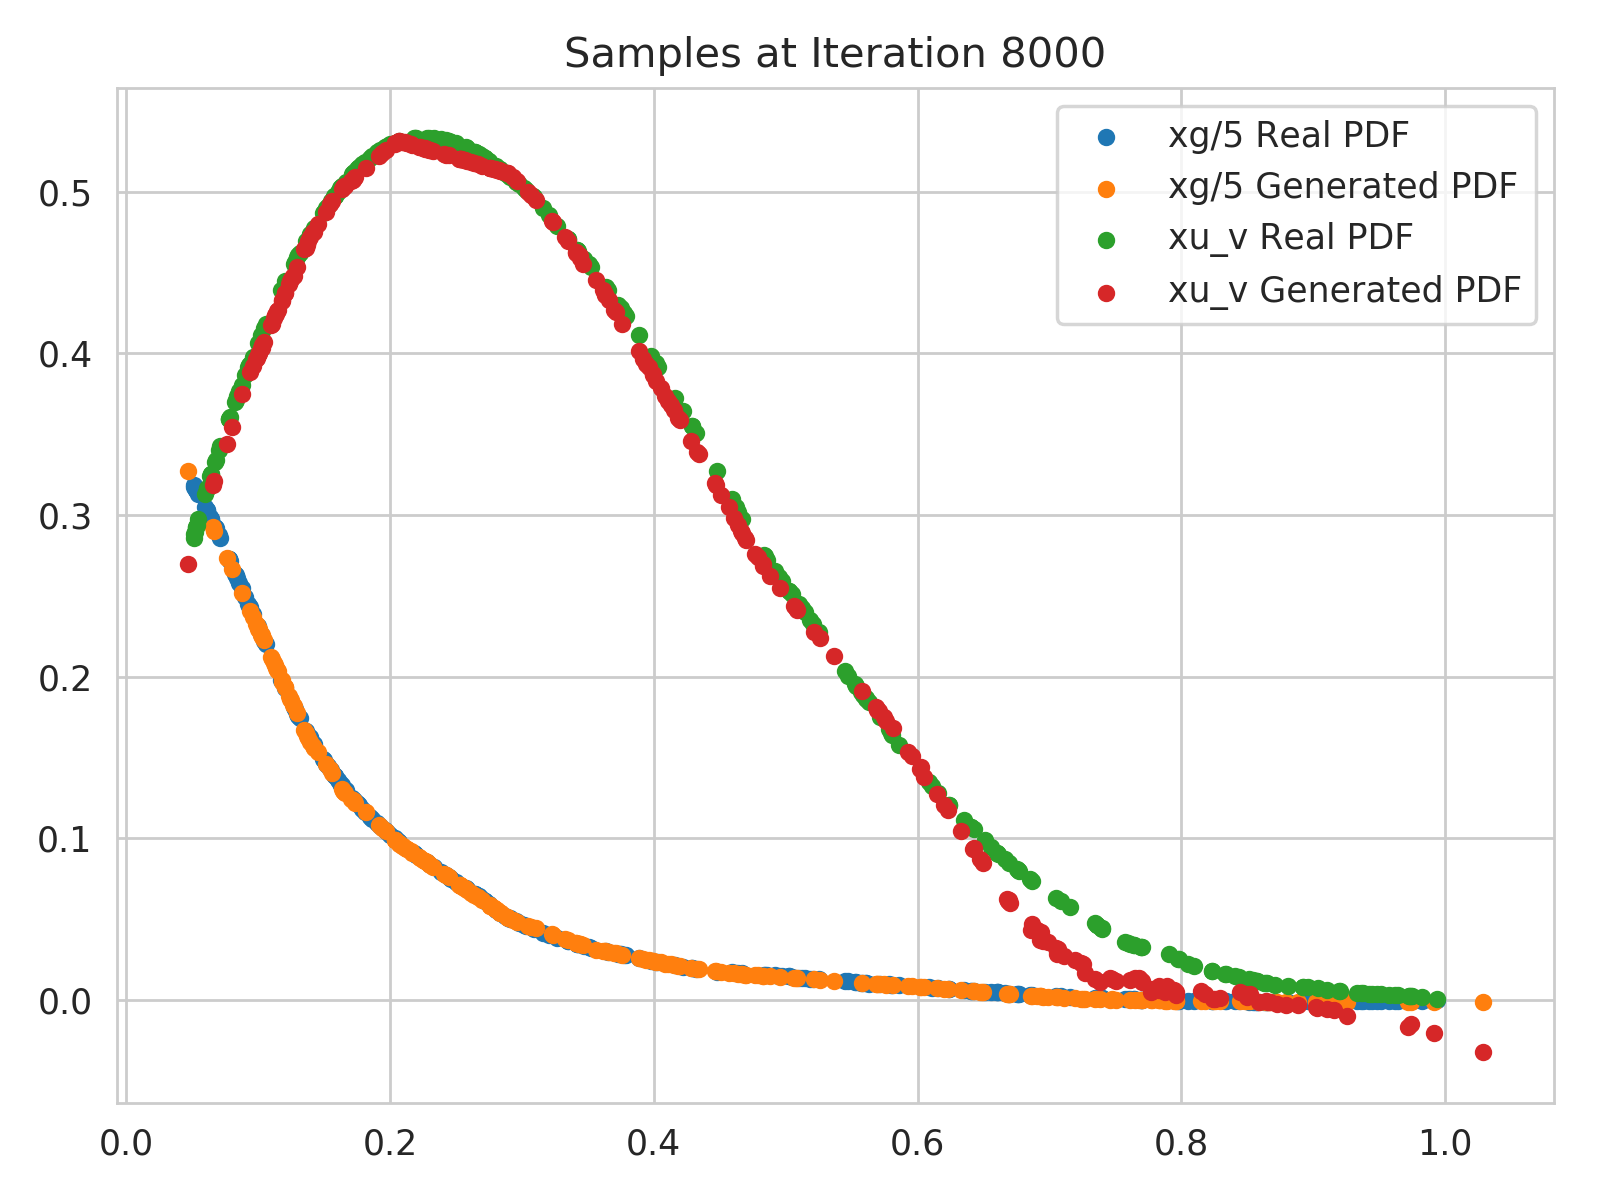
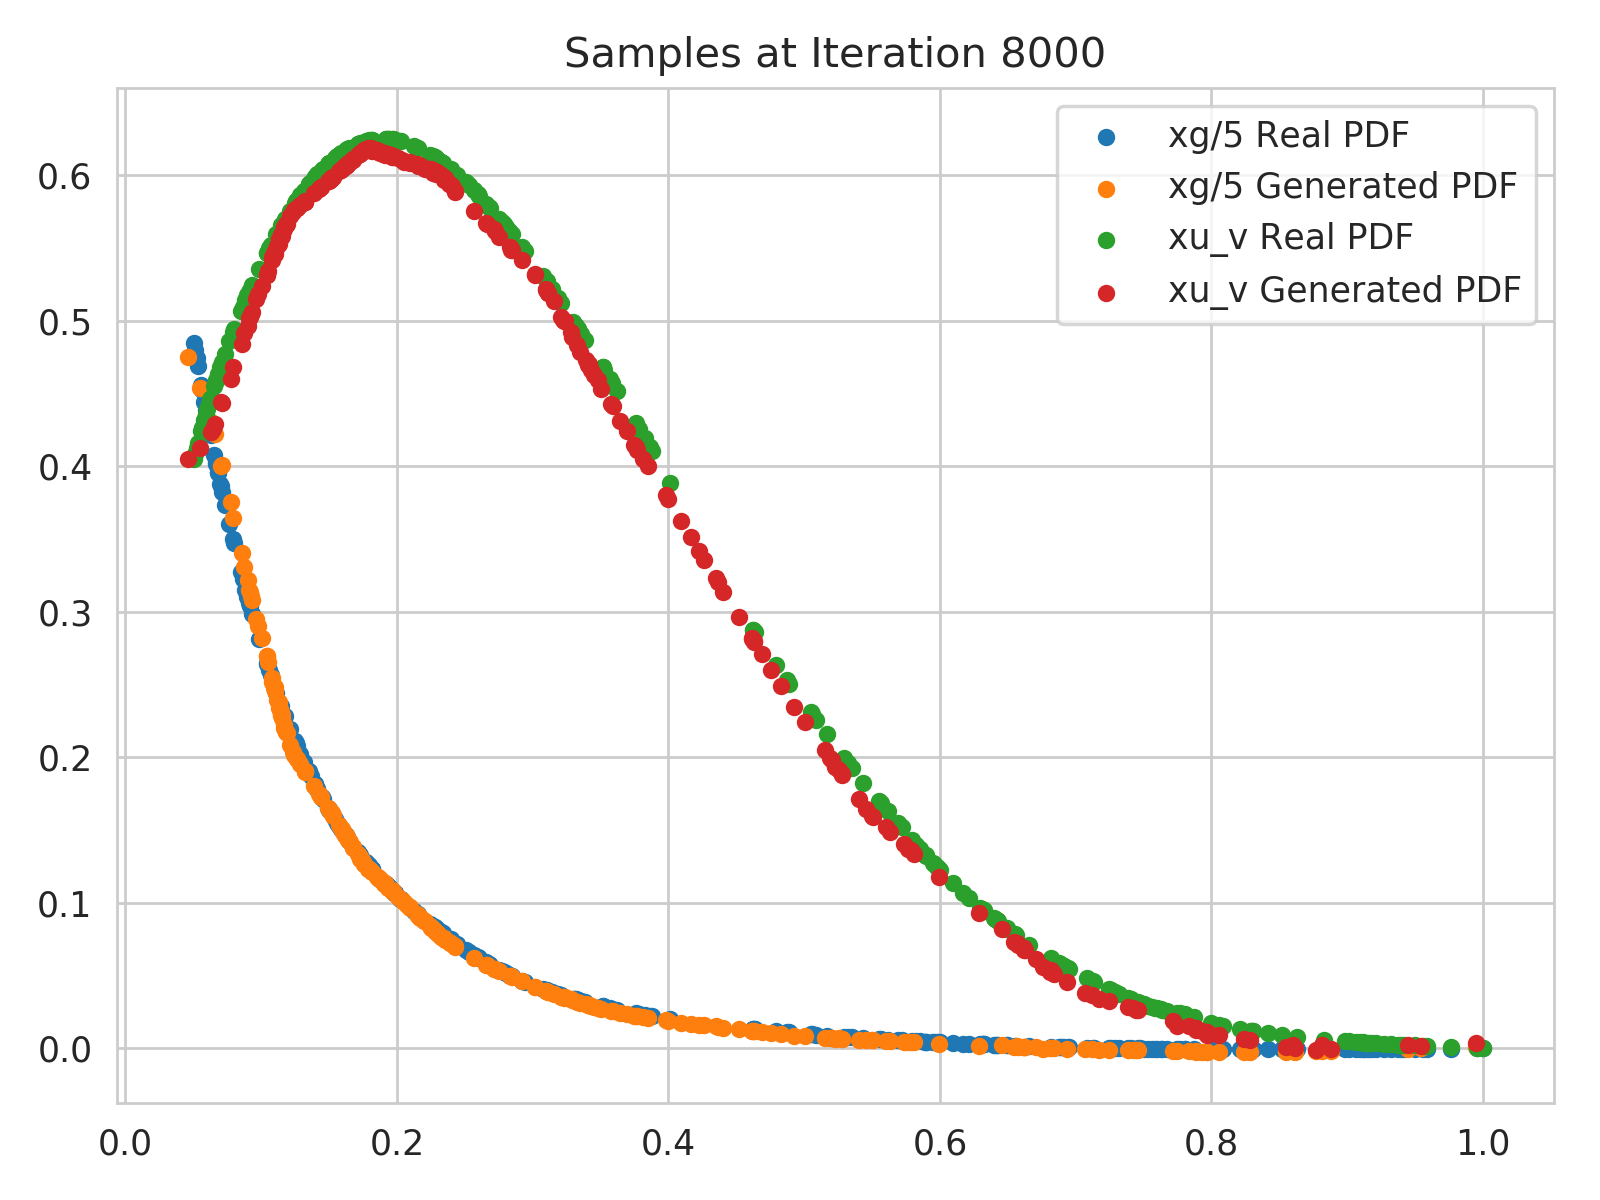
Replace scale

diff --git a/PDFs_Replicas/GANs_Gluon.py b/PDFs_Replicas/GANs_Gluon.py
@@ -17,7 +17,7 @@ print(pdf.description)
 pdf_central = pdf.mkPDF(0)
 
 # Define the scale 
-Q_pdf = 1.5
+Q_pdf = 10
 
 # Define a log uniform function
 def loguniform(low=0, high=1, size=None):
